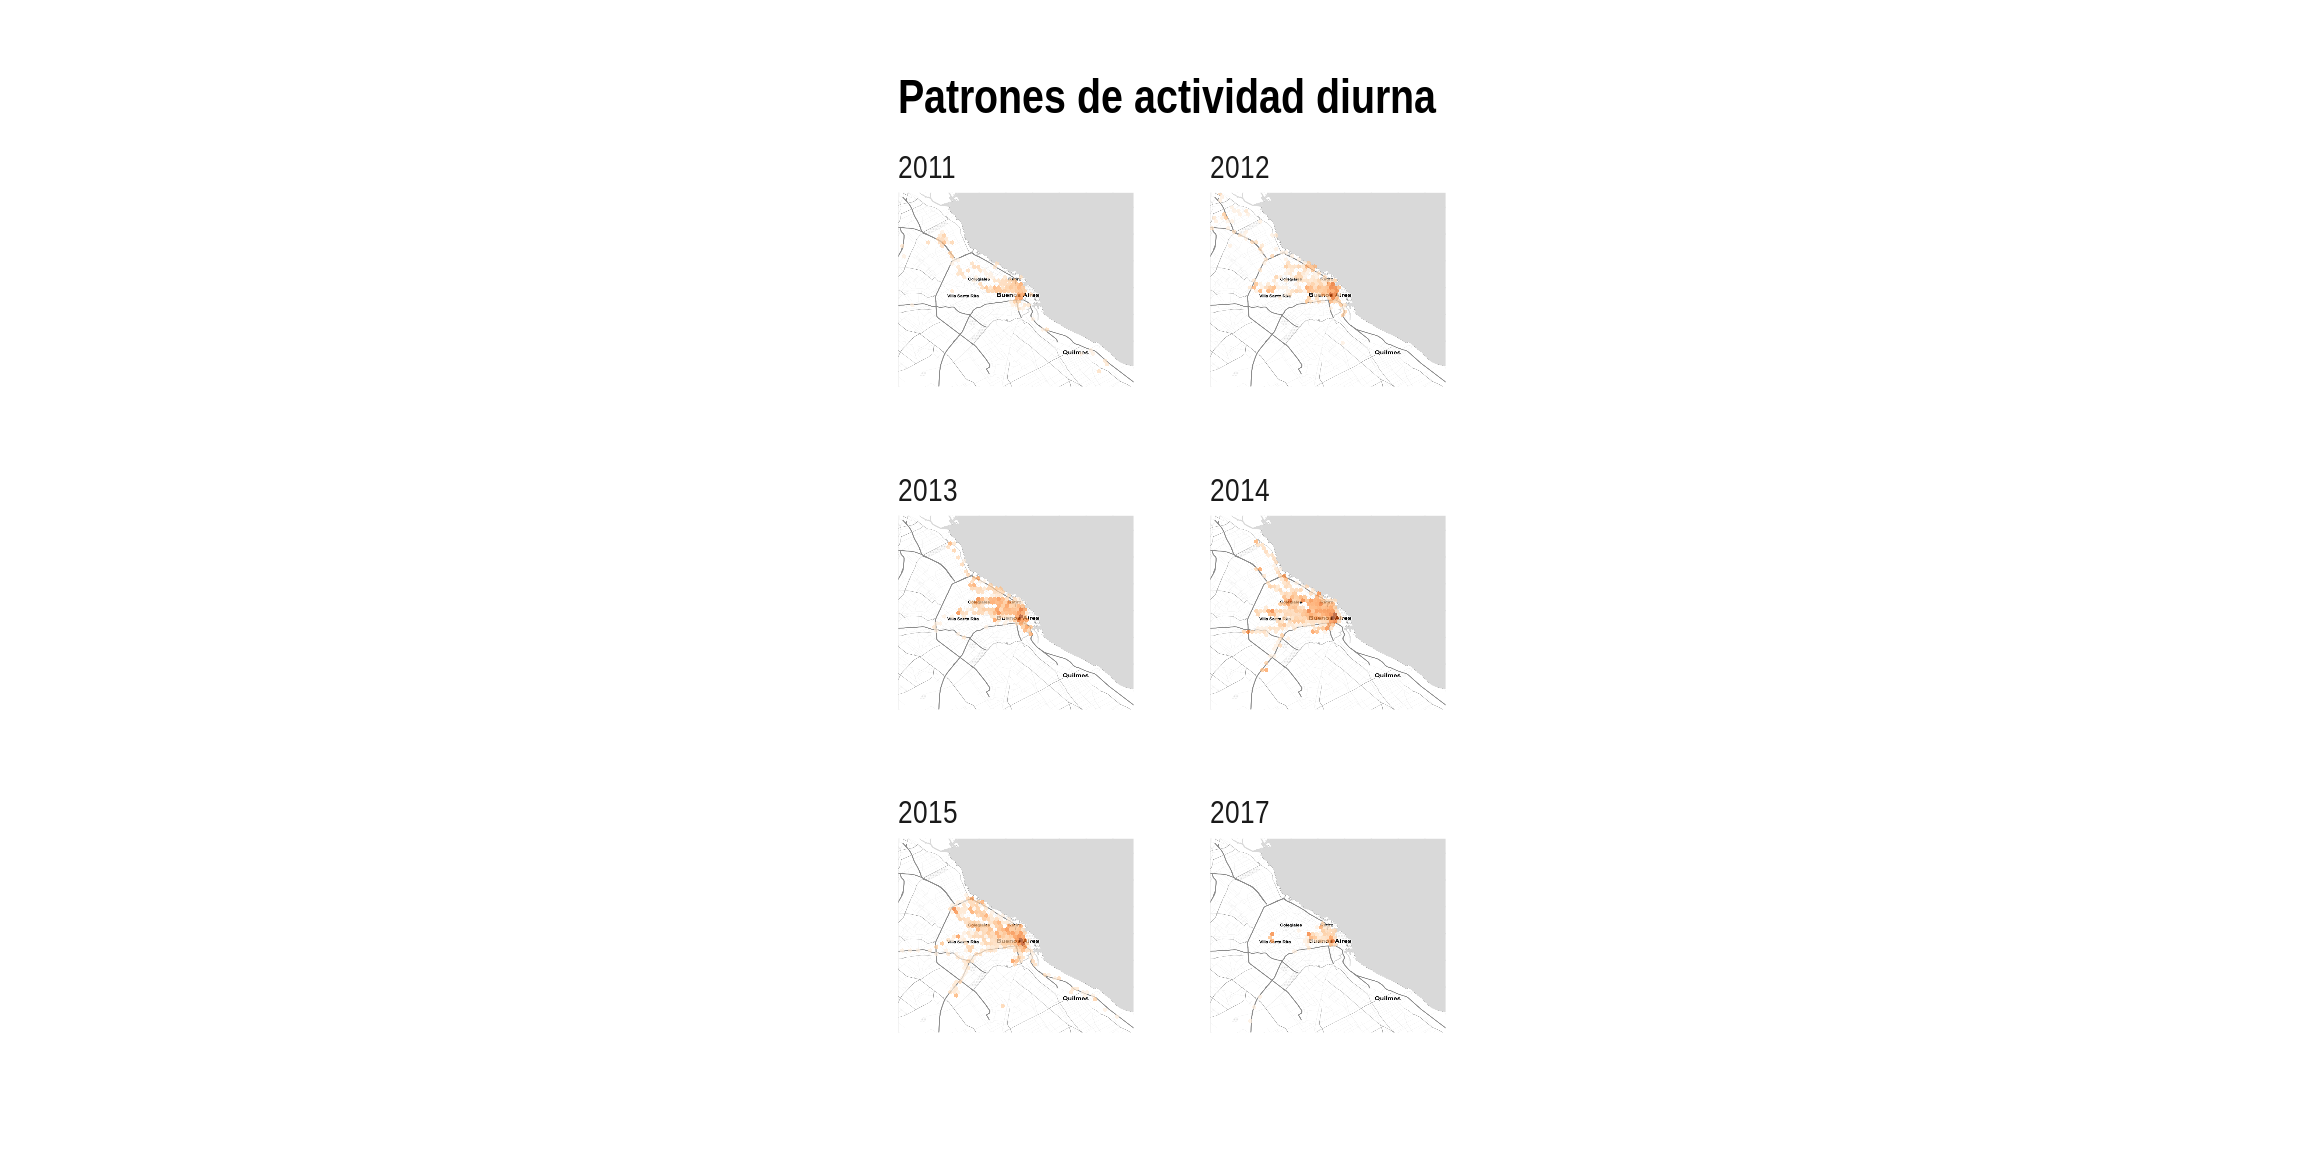
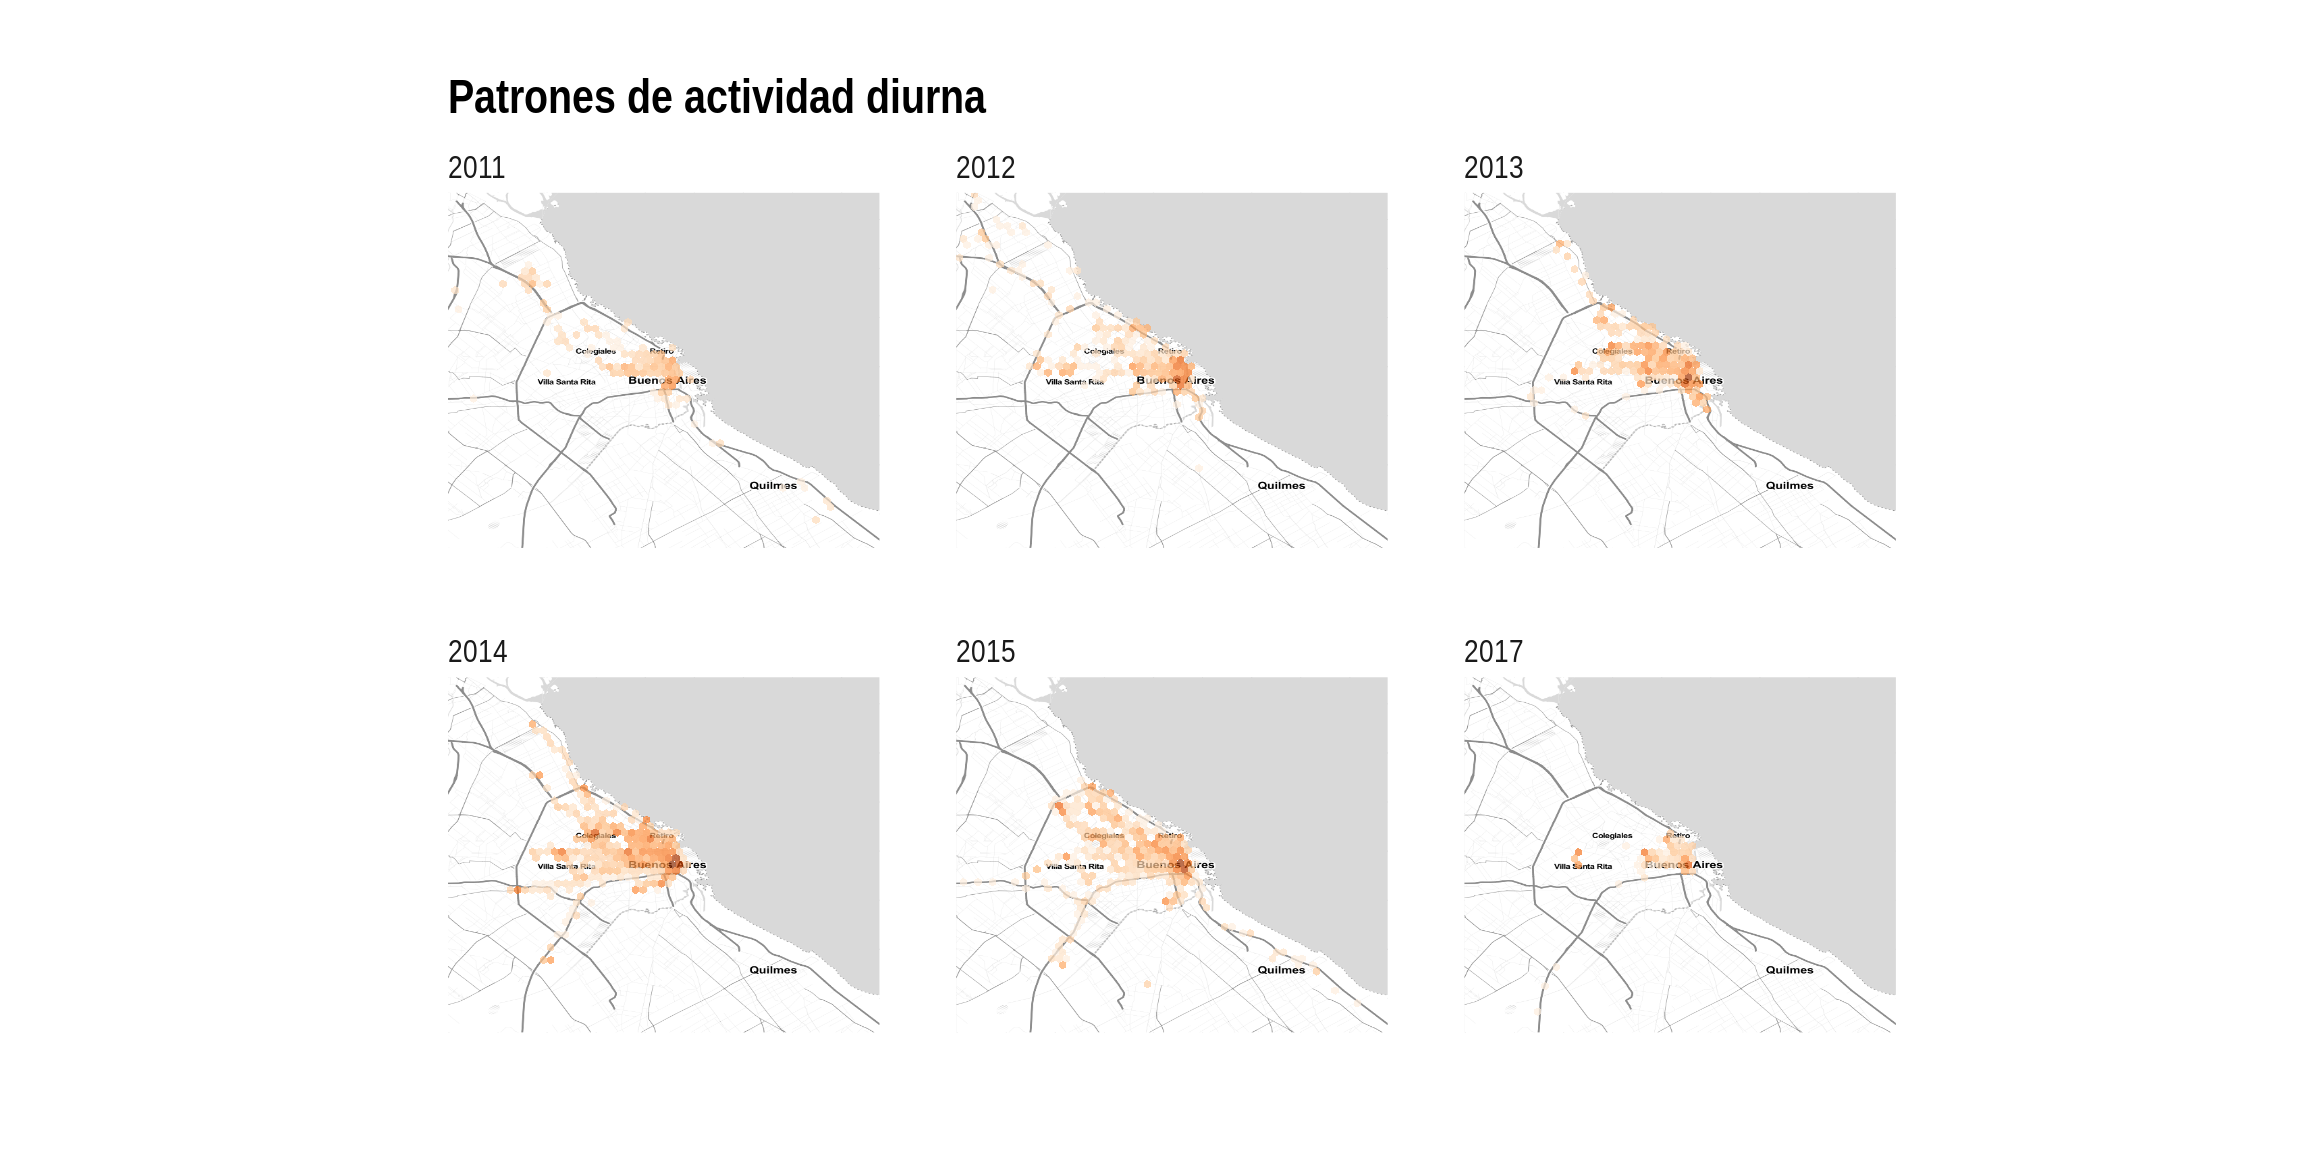
Blog update

Changed region(s): [[0.1875, 0.0625, 0.8438, 0.875], [0.1875, 0.5625, 0.2188, 0.5938], [0.1875, 0.125, 0.2188, 0.1562]]

diff --git a/post/visualizando-con-r-el-historial-de-ubicaciones-de-google-parte-ii/index.html b/post/visualizando-con-r-el-historial-de-ubicaciones-de-google-parte-ii/index.html
@@ -353,7 +353,7 @@ ggmap(BA, extent = &quot;panel&quot;) +
         axis.ticks = element_blank()) +
   # y eliminamos la leyenda
   guides(fill = FALSE) +
-  facet_wrap(~year, ncol = 2)  </code></pre>
+  facet_wrap(~year)  </code></pre>
 <p><img src="/post/2017-06-08-visualizando-con-r-el-historial-de-ubicaciones-de-google-parte-ii_files/figure-html/unnamed-chunk-6-1.png" width="720" /></p>
 <p>Los resultados muestran una diferencia clara entre su actividad en los años 2011 y 2012, con una variedad de sitios visitados más reducida, en comparación con 2014 y 2015 cuando su rutina diaria parece haber sido mucho más variada. Su actividad está claramente concentrada en el área que corresponde al centro económico de la ciudad. Hace incursiones al exterior de la ciudad, hacia el norte, pero rara vez en otra dirección. En lo que va del 2017, sus radio de acción es notablemente más acotado: Su tiempo se reparte en dos regiones nítidamente demarcadas, sin presencia observable en otros sectores. En todo el año 2016 su celular no se reportó ni una sola vez desde los confines de la ciudad. Como ya habíamos notado en la <a href="https://bitsandbricks.github.io/post/visualizando-con-r-el-historial-de-ubicaciones-de-google-parte-i/">parte I</a> de ésta serie, estaba viviendo en otro país.</p>
 <p>Cómo planificador urbano, me causa vértigo imaginar todos los estudios que podríamos hacer sobre nuestras ciudades si tuviéramos acceso a la información que acumula Google: matrices origen/ destino de tránsito minuto a minuto, tendencias de actividad económica, recreativa, cultural, efecto en el tránsito peatonal y vehicular de cortes de servicio, cierre de calles y otros percances, estudios de adecuación del código de uso del suelo, e infinidad más. Claro que, aún más vértigo me da pensar todo lo que saben de nosotros, a nivel individual, no sólo Google sino los <a href="http://www.telam.com.ar/notas/201312/44925-las-principales-revelaciones-de-edward-snowden.html">servicios de inteligencia de los gobiernos que acceden a esos datos</a>. En fin.</p>
